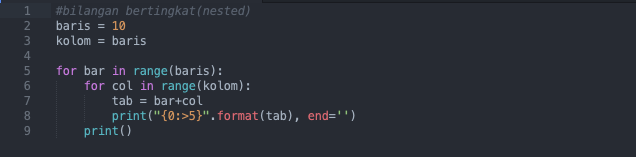
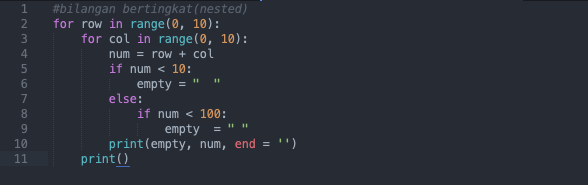
rebuilding task Sun Nov  8 21:28:53 WIB 2020

diff --git a/assets/code/latihan-1.py b/assets/code/latihan-1.py
@@ -1,9 +1,11 @@
 #bilangan bertingkat(nested)
-baris = 10
-kolom = baris
-
-for bar in range(baris):
-    for col in range(kolom):
-        tab = bar+col
-        print("{0:>5}".format(tab), end='')
+for row in range(0, 10):
+    for col in range(0, 10):
+        num = row + col
+        if num < 10:
+            empty = "  "
+        else:
+            if num < 100:
+                empty  = " "
+        print(empty, num, end = '')
     print()
